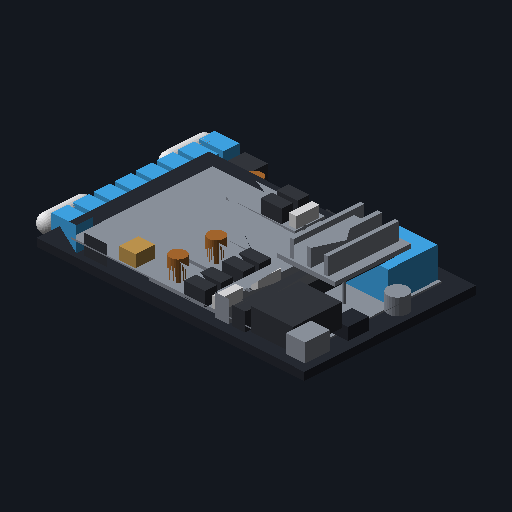
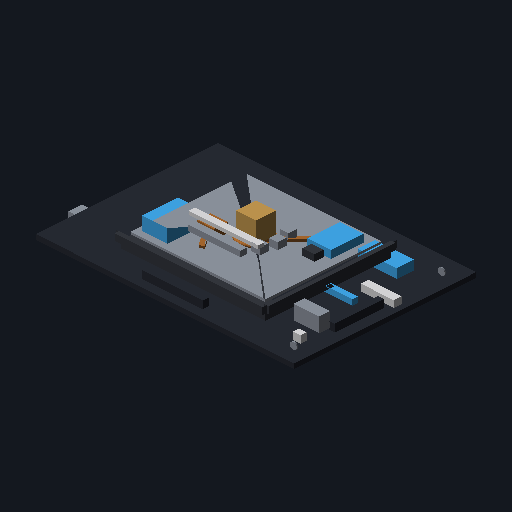
docs(readme): refresh the 3D model to the latest FoldNTT architecture
Regenerated the top-of-README 3D floor-plan (via visually-3d: generate +
self-improve, 94/100) so it reflects the DSP-MINIMAL FoldNTT design — one
bright DSP (the single K-RED multiplier), a half-size psi-fold ROM, one
BRAM, and the own-FSM core — instead of the old multi-DSP CFNTT board.
Updated the caption accordingly.

Changed region(s): [[0.0625, 0.25, 0.9062, 0.7188]]

diff --git a/README.md b/README.md
@@ -2,7 +2,7 @@
 
 <p align="center">
   <img src="docs/assets/foldntt-arch-3d.png" alt="FoldNTT — 3D floor-plan model of the accelerator" width="440"><br/>
-  <sub><i>The accelerator as a 3D floor-plan — the view in which the ψ-fold ROM idea was first spotted.</i></sub>
+  <sub><i>FoldNTT as a 3D floor-plan (generated by <a href="https://github.com/NyxFoundation">visually-3d</a>): the single bright <b>DSP</b> is the one K-RED multiplier, beside the half-size ψ-fold ROM and the own-FSM core — the view in which the ψ-fold idea was first spotted.</i></sub>
 </p>
 
 [![verify](https://github.com/NyxFoundation/FoldNTT/actions/workflows/verify.yml/badge.svg)](https://github.com/NyxFoundation/FoldNTT/actions/workflows/verify.yml)